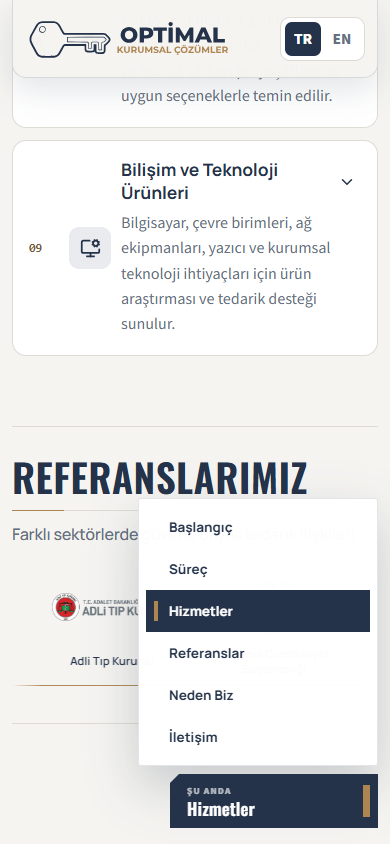
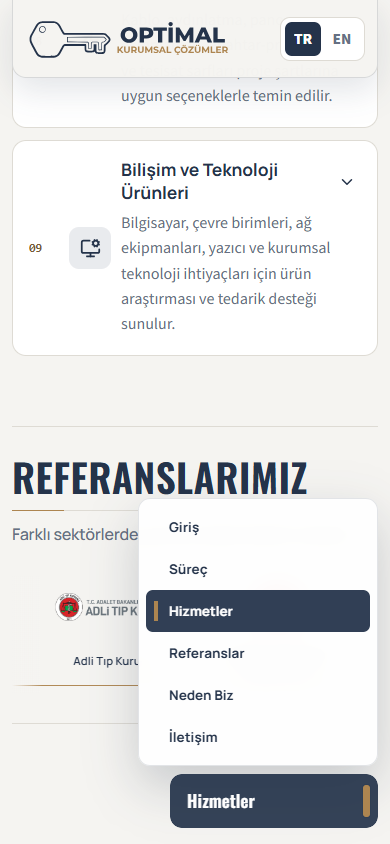
mobil deneme 3

diff --git a/src/styles.css b/src/styles.css
@@ -458,6 +458,7 @@ p { line-height: 1.58; }
     padding: 0;
     overflow: hidden;
     border: 0;
+    border-radius: 12px;
     background: transparent;
     color: #fff;
     cursor: pointer;
@@ -468,9 +469,9 @@ p { line-height: 1.58; }
     position: absolute;
     inset: 0 0 0 auto;
     width: 0;
-    background: var(--navy);
+    border-radius: 12px;
+    background: rgba(36,51,74,.92);
     box-shadow: 0 9px 24px rgba(36,51,74,.22);
-    clip-path: polygon(9px 0,100% 0,100% 100%,0 100%,0 9px);
     content: "";
     transition: width 240ms cubic-bezier(.2,.72,.2,1);
   }
@@ -490,14 +491,6 @@ p { line-height: 1.58; }
     transition: opacity 150ms ease 30ms, transform 220ms ease;
   }
   .mobile-section-index.is-label-visible .mobile-section-readout { opacity: 1; transform: translateX(0); }
-  .mobile-section-readout small {
-    margin-bottom: 1px;
-    color: rgba(255,255,255,.66);
-    font-family: "Source Sans 3 Variable",sans-serif;
-    font-size: .58rem;
-    font-weight: 800;
-    letter-spacing: .13em;
-  }
   .mobile-section-readout strong {
     overflow: hidden;
     font-family: "Oswald Variable",sans-serif;
@@ -515,6 +508,7 @@ p { line-height: 1.58; }
     width: 7px;
     height: 32px;
     margin-right: 8px;
+    border-radius: 3px;
     background: var(--amber);
     box-shadow: 0 0 0 1px rgba(36,51,74,.18);
   }
@@ -523,9 +517,11 @@ p { line-height: 1.58; }
     margin-bottom: 8px;
     padding: 7px;
     border: 1px solid rgba(36,51,74,.13);
-    border-radius: 3px;
-    background: rgba(255,255,255,.98);
+    border-radius: 12px;
+    background: rgba(255,255,255,.94);
     box-shadow: 0 20px 50px rgba(36,51,74,.22);
+    -webkit-backdrop-filter: blur(12px);
+    backdrop-filter: blur(12px);
     opacity: 0;
     pointer-events: none;
     transform: translateY(10px) scale(.98);
@@ -547,13 +543,14 @@ p { line-height: 1.58; }
     align-items: center;
     min-height: 42px;
     padding: 7px 12px 7px 8px;
+    border-radius: 7px;
     color: var(--navy);
     font-family: "Manrope Variable",sans-serif;
     font-size: .84rem;
     font-weight: 720;
   }
   .mobile-section-menu a > span { width: 4px; height: 20px; background: transparent; }
-  .mobile-section-menu a[aria-current="location"] { background: var(--navy); color: #fff; }
+  .mobile-section-menu a[aria-current="location"] { background: rgba(36,51,74,.94); color: #fff; }
   .mobile-section-menu a[aria-current="location"] > span { background: var(--amber); }
   .mobile-section-menu a:active { background: rgba(36,51,74,.08); }
   .hero-section { grid-template-columns: 1fr; grid-template-areas: "copy" "media" "stats"; gap: 28px; min-height: 0; padding: 54px 15px 26px; }

diff --git a/src/App.tsx b/src/App.tsx
@@ -132,7 +132,7 @@ export function App() {
   }, []);
 
   const mobileSections = useMemo(() => [
-    { id: "top" as const, label: language === "tr" ? "Başlangıç" : "Home" },
+    { id: "top" as const, label: language === "tr" ? "Giriş" : "Intro" },
     { id: sectionIds.process, label: t.nav.process },
     { id: sectionIds.services, label: t.nav.services },
     { id: sectionIds.references, label: t.nav.references },
@@ -297,7 +297,6 @@ export function App() {
           }}
         >
           <span className="mobile-section-readout">
-            <small>{language === "tr" ? "ŞU ANDA" : "NOW"}</small>
             <strong>{mobileSections.find((section) => section.id === activeSection)?.label}</strong>
           </span>
           <span className="mobile-section-tab" aria-hidden="true" />
